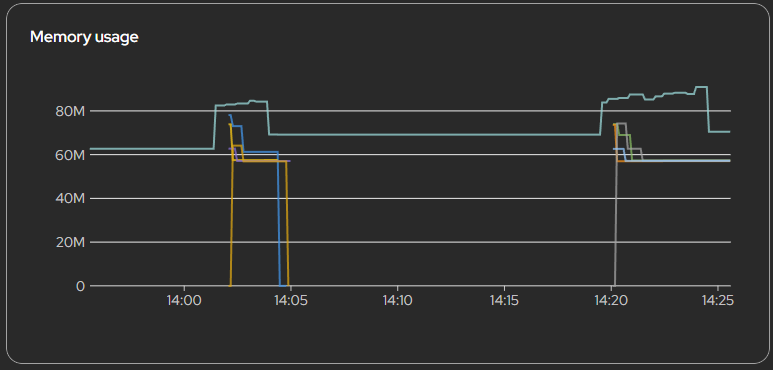
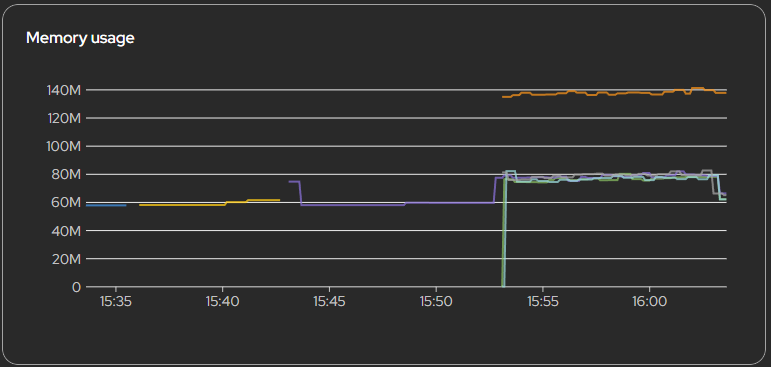
Writing docs

diff --git a/docs/STRESSTEST.md b/docs/STRESSTEST.md
@@ -25,16 +25,12 @@ Ehhez létrehoztam a következőket:
 * Új **Service**: `fotoalbum-locust`
 * Új **Route**: `fotoalbum-locust`
 
-Ezen felül a Github Actions workflow fájlba felvettem a következőket, hogy a CI/CD pipeline részeként a locust alkalmazás is frissüljön:
+Ezen felül a Github Actions workflow fájlba felvettem a locust-ot is, mint service-t, hogy a CI/CD pipeline részeként a locust alkalmazás is frissüljön:
 ```yaml
-- name: Update deployments with new images
-        run: |
-          [...]
-          LOCUST_DIGEST=$(oc get istag fotoalbum-locust:latest -n fotoalbum -o jsonpath='{.image.dockerImageReference}')
-
-          
-          [...]
-          oc set image deployment/fotoalbum-locust fotoalbum-locust=$LOCUST_DIGEST -n fotoalbum
+strategy:
+      fail-fast: false #do not fail if any of the builds fail
+      matrix:
+        service: [auth, server, frontend, locust]
 ```
 
 ## A terheléspróba
@@ -52,16 +48,23 @@ Egyéb információk:
 * <u>Virtuális felhasználók száma</u>: 50
 * <u>Ramp-up ráta</u>: 5 felhasználó / mp
 
-<!-- TODO: aut. felskálázódás bizonyítéka -->
-
 ## Eredmények, események
 Az alábbi kép a Locust felületén mutatja be a HTTP kérdés- és válasz értékeket a tesztelés idején. Látható mindhárom grafikonon a folyamatos terhelésnövekedést (a ramp-upnak miatt fokozatosan, nem hirtelen), valamint, hogy idővel stabilizálódtak a kiszolgálások a felskálázódás miatt.
 
 ![image](images/locust_charts.png)
 
-Az OpenShift felületén látható, hogy a tesztelés megkezdése után megugrottak a memória- és processzor kihasználtságok, aminek következtében új Pod-ok indultak. A türkiz görbe az első Pod terhelését mutatja. Látszik, hogy ez kapta a legnagyobb terhelést a többi közül. Ennek oka, hogy a hirtelen történt terhelésnövekedés ugyan új Pod-okat indított, de ezek elkészüléséig csakis az első Pod kapta a terhelést. 
+Az OpenShift felületén látható, hogy a tesztelés megkezdése után megugrottak a memória- és processzor kihasználtságok, aminek következtében új Pod-ok indultak. A lila görbe az első Pod terhelését mutatja. Látszik, hogy ez kapta a legnagyobb terhelést a többi közül. Ennek oka, hogy a hirtelen történt terhelésnövekedés ugyan új Pod-okat indított, de ezek elkészüléséig csakis az első Pod kapta a terhelést. Amint készen álltak az új podok, a terhelés nagyjából egyenletesen lett elosztva.
 ![image](images/memory_metrics.png)
 ![image](images/cpu_metrics.png)
+
+Végül pedig lássuk milyen események zajlottak le a szerver Deployment-jében, valamint a HPA-nál:
+![image](images/deployment_events.png)
+![image](images/hpa_events.png)
+
+Az ábrákon jól látható:
+* A terhelés kezdetekor +2 Pod indult (1 → 3)
+* Majd rögtön még 2 (3 → 5)
+* A teszt után (16:04-kor, 2 perccel a teszt vége után) leskálázódott először 2, majd végül 1 Pod-ra
 
 ### Tanulságok
 A tanulságokról az `INSIGHTS.md` dokumentumban lehet olvasni.

diff --git a/docs/INSIGHTS.md b/docs/INSIGHTS.md
@@ -5,4 +5,13 @@
 - locust image nem frissült -> main.yaml-be betettem
 - pod szám nem csökkent -> HPA YAML frissítése
 - csak az első Pod volt terhelve -> mert nem zárta le a Locust a kapcsolatokat
+
+
+- Routes: 
+metadata:
+  annotations:
+    # 1. Kikapcsolja a Session Affinity-t (nincs több INGRESSCOOKIE)
+    haproxy.router.openshift.io/disable_cookies: 'true'
+    # 2. Megváltoztatja az algoritmust: ne körbe-körbe, hanem a legkevesebb kapcsolathoz küldje
+    haproxy.router.openshift.io/balance: 'leastconn'
  -->
